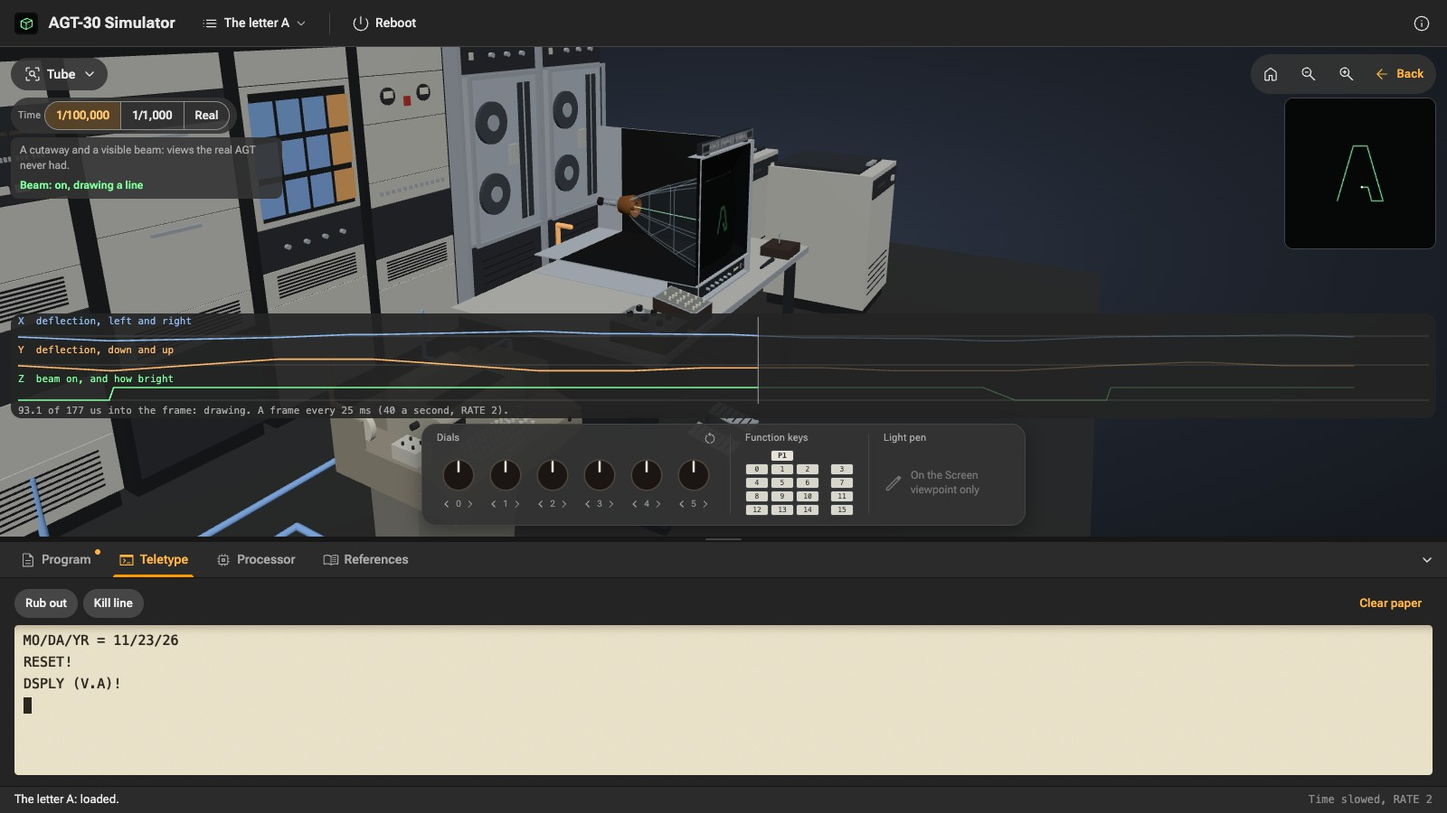
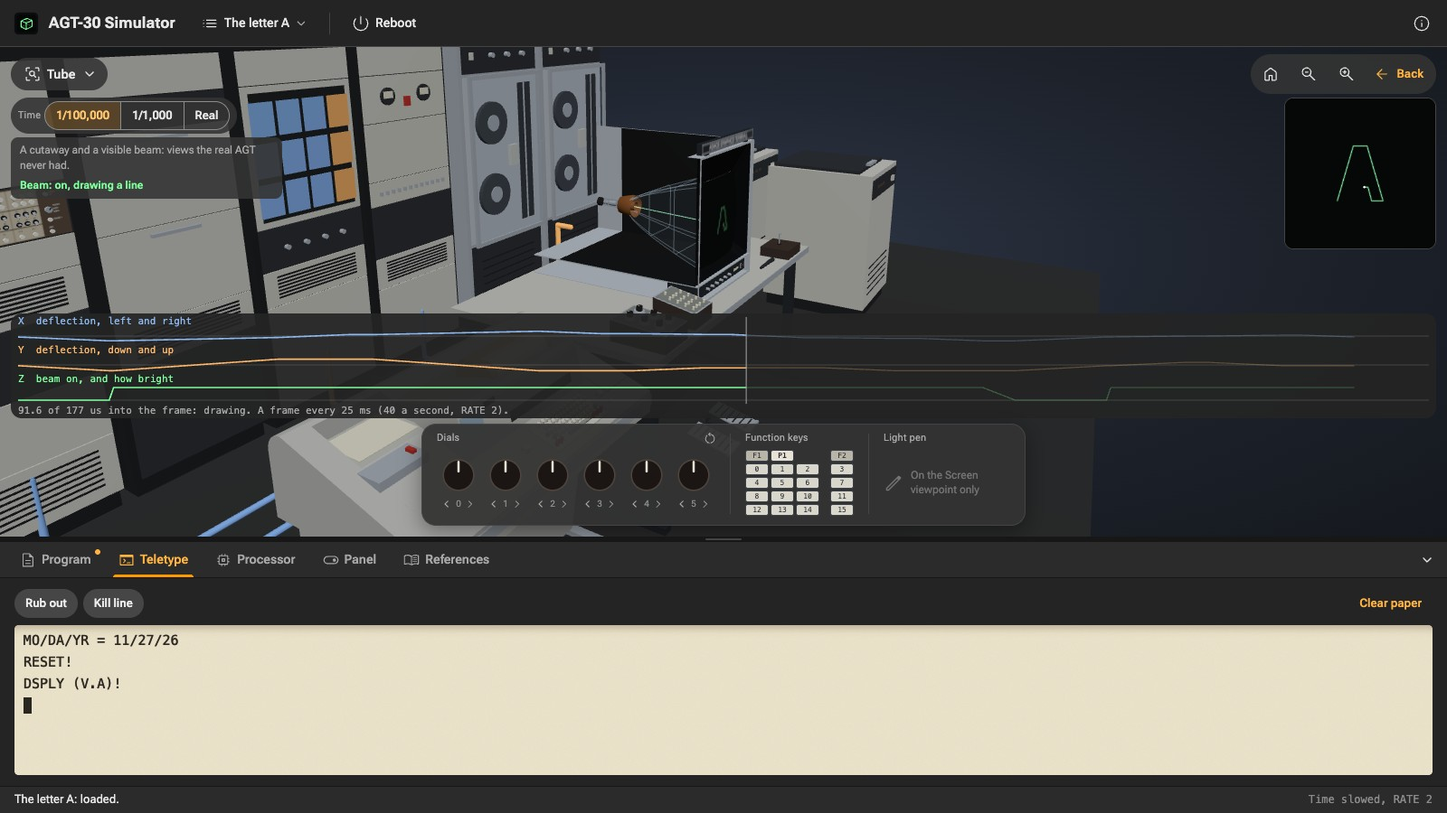
v0.0.5, ready for review on the dev branch: CHANGELOG section, version 0.0.5 stamped, README brought up to date (the games, the Panel tab and viewpoint, the pedals, the reconstructions' short forms, matched in About), screenshots refreshed

Changed region(s): [[0.1875, 0.4978, 0.4062, 0.7156], [0.0, 0.1244, 0.0625, 0.3111], [0.375, 0.4978, 0.4375, 0.5289]]

diff --git a/index.html b/index.html
@@ -6,74 +6,74 @@
     <meta name="viewport" content="width=device-width, initial-scale=1">
     <meta name="description" content="The Adage Graphics Terminal AGT-30 (1968) in your browser: a 3D picture turned by a hybrid analog array and drawn on a refreshed vector CRT, with its Teletype and console.">
     <title>AGT-30 Simulator</title>
-    <link rel="icon" href="images/favicon.svg?v=0.0.4" type="image/svg+xml">
-    <link rel="stylesheet" href="css/style.css?v=0.0.4">
+    <link rel="icon" href="images/favicon.svg?v=0.0.5" type="image/svg+xml">
+    <link rel="stylesheet" href="css/style.css?v=0.0.5">
     <!-- Every file name here carries the version (?v=), and so does each module the
          scripts import, through this map. pnpm version writes them, or pnpm stamp
          (tools/stamp.mjs); do not edit them by hand. -->
     <script type="importmap">
     {
       "imports": {
-        "three": "./vendor/three/build/three.module.js?v=0.0.4",
-        "three/addons/controls/OrbitControls.js": "./vendor/three/examples/jsm/controls/OrbitControls.js?v=0.0.4",
-        "three/addons/utils/BufferGeometryUtils.js": "./vendor/three/examples/jsm/utils/BufferGeometryUtils.js?v=0.0.4",
-        "./js/accept/check.js": "./js/accept/check.js?v=0.0.4",
-        "./js/accept/crt.js": "./js/accept/crt.js?v=0.0.4",
-        "./js/accept/model.js": "./js/accept/model.js?v=0.0.4",
-        "./js/accept/scene.js": "./js/accept/scene.js?v=0.0.4",
-        "./js/app/about.js": "./js/app/about.js?v=0.0.4",
-        "./js/app/aboutData.js": "./js/app/aboutData.js?v=0.0.4",
-        "./js/app/dock.js": "./js/app/dock.js?v=0.0.4",
-        "./js/app/link.js": "./js/app/link.js?v=0.0.4",
-        "./js/app/main.js": "./js/app/main.js?v=0.0.4",
-        "./js/app/panel.js": "./js/app/panel.js?v=0.0.4",
-        "./js/app/processor.js": "./js/app/processor.js?v=0.0.4",
-        "./js/app/programCard.js": "./js/app/programCard.js?v=0.0.4",
-        "./js/app/references.js": "./js/app/references.js?v=0.0.4",
-        "./js/app/runner.js": "./js/app/runner.js?v=0.0.4",
-        "./js/app/selftest.js": "./js/app/selftest.js?v=0.0.4",
-        "./js/app/stage.js": "./js/app/stage.js?v=0.0.4",
-        "./js/app/strip.js": "./js/app/strip.js?v=0.0.4",
-        "./js/app/teletype.js": "./js/app/teletype.js?v=0.0.4",
-        "./js/l10n/en.js": "./js/l10n/en.js?v=0.0.4",
-        "./js/l10n/l10n.js": "./js/l10n/l10n.js?v=0.0.4",
-        "./js/scene/terminal3d.js": "./js/scene/terminal3d.js?v=0.0.4",
-        "./js/scene/viewer.js": "./js/scene/viewer.js?v=0.0.4",
-        "./js/sim/adept.js": "./js/sim/adept.js?v=0.0.4",
-        "./js/sim/agt.js": "./js/sim/agt.js?v=0.0.4",
-        "./js/sim/amos.js": "./js/sim/amos.js?v=0.0.4",
-        "./js/sim/amoscode.js": "./js/sim/amoscode.js?v=0.0.4",
-        "./js/sim/array.js": "./js/sim/array.js?v=0.0.4",
-        "./js/sim/avg1.js": "./js/sim/avg1.js?v=0.0.4",
-        "./js/sim/bare.js": "./js/sim/bare.js?v=0.0.4",
-        "./js/sim/dms2.js": "./js/sim/dms2.js?v=0.0.4",
-        "./js/sim/dpr2.js": "./js/sim/dpr2.js?v=0.0.4",
-        "./js/sim/dsply.js": "./js/sim/dsply.js?v=0.0.4",
-        "./js/sim/figures.js": "./js/sim/figures.js?v=0.0.4",
-        "./js/sim/font.js": "./js/sim/font.js?v=0.0.4",
-        "./js/sim/frameclock.js": "./js/sim/frameclock.js?v=0.0.4",
-        "./js/sim/image.js": "./js/sim/image.js?v=0.0.4",
-        "./js/sim/listing.js": "./js/sim/listing.js?v=0.0.4",
-        "./js/sim/panel.js": "./js/sim/panel.js?v=0.0.4",
-        "./js/sim/programs.js": "./js/sim/programs.js?v=0.0.4",
-        "./js/sim/teletype.js": "./js/sim/teletype.js?v=0.0.4",
-        "./js/sim/terminal.js": "./js/sim/terminal.js?v=0.0.4",
-        "./js/sim/ttyline.js": "./js/sim/ttyline.js?v=0.0.4",
-        "./js/sim/vecgen.js": "./js/sim/vecgen.js?v=0.0.4",
-        "./js/sim/words.js": "./js/sim/words.js?v=0.0.4",
-        "./js/ui/components.js": "./js/ui/components.js?v=0.0.4",
-        "./js/view/beam.js": "./js/view/beam.js?v=0.0.4",
-        "./js/view/crt.js": "./js/view/crt.js?v=0.0.4",
-        "./js/view/phosphor.js": "./js/view/phosphor.js?v=0.0.4",
-        "./js/view/theme.js": "./js/view/theme.js?v=0.0.4",
-        "./js/view/traces.js": "./js/view/traces.js?v=0.0.4",
-        "./package.json": "./package.json?v=0.0.4",
-        "./params/terminal.json": "./params/terminal.json?v=0.0.4",
-        "./vendor/material-symbols/icons.js": "./vendor/material-symbols/icons.js?v=0.0.4",
-        "./vendor/three/build/three.core.js": "./vendor/three/build/three.core.js?v=0.0.4",
-        "./vendor/three/build/three.module.js": "./vendor/three/build/three.module.js?v=0.0.4",
-        "./vendor/three/examples/jsm/controls/OrbitControls.js": "./vendor/three/examples/jsm/controls/OrbitControls.js?v=0.0.4",
-        "./vendor/three/examples/jsm/utils/BufferGeometryUtils.js": "./vendor/three/examples/jsm/utils/BufferGeometryUtils.js?v=0.0.4"
+        "three": "./vendor/three/build/three.module.js?v=0.0.5",
+        "three/addons/controls/OrbitControls.js": "./vendor/three/examples/jsm/controls/OrbitControls.js?v=0.0.5",
+        "three/addons/utils/BufferGeometryUtils.js": "./vendor/three/examples/jsm/utils/BufferGeometryUtils.js?v=0.0.5",
+        "./js/accept/check.js": "./js/accept/check.js?v=0.0.5",
+        "./js/accept/crt.js": "./js/accept/crt.js?v=0.0.5",
+        "./js/accept/model.js": "./js/accept/model.js?v=0.0.5",
+        "./js/accept/scene.js": "./js/accept/scene.js?v=0.0.5",
+        "./js/app/about.js": "./js/app/about.js?v=0.0.5",
+        "./js/app/aboutData.js": "./js/app/aboutData.js?v=0.0.5",
+        "./js/app/dock.js": "./js/app/dock.js?v=0.0.5",
+        "./js/app/link.js": "./js/app/link.js?v=0.0.5",
+        "./js/app/main.js": "./js/app/main.js?v=0.0.5",
+        "./js/app/panel.js": "./js/app/panel.js?v=0.0.5",
+        "./js/app/processor.js": "./js/app/processor.js?v=0.0.5",
+        "./js/app/programCard.js": "./js/app/programCard.js?v=0.0.5",
+        "./js/app/references.js": "./js/app/references.js?v=0.0.5",
+        "./js/app/runner.js": "./js/app/runner.js?v=0.0.5",
+        "./js/app/selftest.js": "./js/app/selftest.js?v=0.0.5",
+        "./js/app/stage.js": "./js/app/stage.js?v=0.0.5",
+        "./js/app/strip.js": "./js/app/strip.js?v=0.0.5",
+        "./js/app/teletype.js": "./js/app/teletype.js?v=0.0.5",
+        "./js/l10n/en.js": "./js/l10n/en.js?v=0.0.5",
+        "./js/l10n/l10n.js": "./js/l10n/l10n.js?v=0.0.5",
+        "./js/scene/terminal3d.js": "./js/scene/terminal3d.js?v=0.0.5",
+        "./js/scene/viewer.js": "./js/scene/viewer.js?v=0.0.5",
+        "./js/sim/adept.js": "./js/sim/adept.js?v=0.0.5",
+        "./js/sim/agt.js": "./js/sim/agt.js?v=0.0.5",
+        "./js/sim/amos.js": "./js/sim/amos.js?v=0.0.5",
+        "./js/sim/amoscode.js": "./js/sim/amoscode.js?v=0.0.5",
+        "./js/sim/array.js": "./js/sim/array.js?v=0.0.5",
+        "./js/sim/avg1.js": "./js/sim/avg1.js?v=0.0.5",
+        "./js/sim/bare.js": "./js/sim/bare.js?v=0.0.5",
+        "./js/sim/dms2.js": "./js/sim/dms2.js?v=0.0.5",
+        "./js/sim/dpr2.js": "./js/sim/dpr2.js?v=0.0.5",
+        "./js/sim/dsply.js": "./js/sim/dsply.js?v=0.0.5",
+        "./js/sim/figures.js": "./js/sim/figures.js?v=0.0.5",
+        "./js/sim/font.js": "./js/sim/font.js?v=0.0.5",
+        "./js/sim/frameclock.js": "./js/sim/frameclock.js?v=0.0.5",
+        "./js/sim/image.js": "./js/sim/image.js?v=0.0.5",
+        "./js/sim/listing.js": "./js/sim/listing.js?v=0.0.5",
+        "./js/sim/panel.js": "./js/sim/panel.js?v=0.0.5",
+        "./js/sim/programs.js": "./js/sim/programs.js?v=0.0.5",
+        "./js/sim/teletype.js": "./js/sim/teletype.js?v=0.0.5",
+        "./js/sim/terminal.js": "./js/sim/terminal.js?v=0.0.5",
+        "./js/sim/ttyline.js": "./js/sim/ttyline.js?v=0.0.5",
+        "./js/sim/vecgen.js": "./js/sim/vecgen.js?v=0.0.5",
+        "./js/sim/words.js": "./js/sim/words.js?v=0.0.5",
+        "./js/ui/components.js": "./js/ui/components.js?v=0.0.5",
+        "./js/view/beam.js": "./js/view/beam.js?v=0.0.5",
+        "./js/view/crt.js": "./js/view/crt.js?v=0.0.5",
+        "./js/view/phosphor.js": "./js/view/phosphor.js?v=0.0.5",
+        "./js/view/theme.js": "./js/view/theme.js?v=0.0.5",
+        "./js/view/traces.js": "./js/view/traces.js?v=0.0.5",
+        "./package.json": "./package.json?v=0.0.5",
+        "./params/terminal.json": "./params/terminal.json?v=0.0.5",
+        "./vendor/material-symbols/icons.js": "./vendor/material-symbols/icons.js?v=0.0.5",
+        "./vendor/three/build/three.core.js": "./vendor/three/build/three.core.js?v=0.0.5",
+        "./vendor/three/build/three.module.js": "./vendor/three/build/three.module.js?v=0.0.5",
+        "./vendor/three/examples/jsm/controls/OrbitControls.js": "./vendor/three/examples/jsm/controls/OrbitControls.js?v=0.0.5",
+        "./vendor/three/examples/jsm/utils/BufferGeometryUtils.js": "./vendor/three/examples/jsm/utils/BufferGeometryUtils.js?v=0.0.5"
       }
     }
     </script>
@@ -81,7 +81,7 @@
   <body>
     <header id="topbar">
       <div class="brand">
-        <img class="brand-mark" src="images/logo.svg?v=0.0.4" alt="">
+        <img class="brand-mark" src="images/logo.svg?v=0.0.5" alt="">
         <span class="brand-name" data-l10n="app.name">AGT-30 Simulator</span>
       </div>
       <button id="programs" class="btn tool-btn has-icon" type="button" aria-haspopup="menu" aria-expanded="false" data-tip-describes data-l10n-tip="bar.programs.tip"><i data-icon="list"></i><span id="programs-label" data-l10n="bar.programs"></span><i data-icon="keyboard_arrow_down"></i></button>
@@ -164,6 +164,6 @@
     </section>
 
     <footer id="status" role="status" aria-live="polite"><span id="status-text"></span><span id="fps" class="fps"></span></footer>
-    <script type="module" src="js/app/main.js?v=0.0.4"></script>
+    <script type="module" src="js/app/main.js?v=0.0.5"></script>
   </body>
 </html>

diff --git a/js/l10n/en.js b/js/l10n/en.js
@@ -354,22 +354,22 @@ export default {
   "recon.R6": "Settled: the multiply unit's results are as the processor's manual gives them.",
   "recon.R7": "A dial is read through the array's input selector and converter, as on the AGT/30; how the selector's word chooses the dial is ours.",
   "recon.R8": "The assembler is ADEPT as its manual describes it, without action operators or relocatable output, and with our syntax for display items' arguments.",
-  "recon.R9": "What the monitor types back is ours: echoes, results and ?; the Teletype takes a whole character at a time, not a bit.",
-  "recon.R10": "Interrupts: the pen, the Teletype and the frame clock are served directly; the program interrupt's pivot is ours.",
+  "recon.R9": "What the simulator's own monitor types back is ours: echoes, results and ?; with it, the Teletype takes a whole character at a time. Under AMRMX the line works a bit at a time (R23).",
+  "recon.R10": "Interrupts: under the simulator's own monitor the pen, the Teletype and the frame clock are served directly; under AMRMX the devices interrupt as its code expects. The program interrupt's pivot, 77743, is AMRMX's.",
   "recon.R11": "The pen-hit table's layout and PENHT's code are ours.",
   "recon.R12": "Dash mode draws about ten dashes an inch.",
   "recon.R13": "The tunnel's perspective routine is JavaScript, charged an estimated time.",
   "recon.R14": "The phosphor: green and medium-short, P31-like; the GDS1's is not documented.",
   "recon.R15": "Core at start holds the paper's pictures and the resident routines; 32K words, as NCSU's.",
   "recon.R16": "Sizes: the scope measured from photographs; the racks, tapes and disks estimated.",
-  "recon.R17": "The Teletype's shape: proportions measured from a reference model, scaled to its documented size.",
-  "recon.R18": "The console's devices: shapes from photographs; the pedals as the period's foot switches.",
+  "recon.R17": "The Teletype is an ASR-35 at its documented size, shaped from photographs; the ASR-33 is kept as an option.",
+  "recon.R18": "The console's devices: shapes from photographs; the pedals as the period's foot switches. The keys and pedals reach the processor as Adage's own switch routines read them.",
   "recon.R19": "The cables are a diagram of the signal paths, not the real cabling.",
   "recon.R20": "The cutaway and the visible beam are views the real AGT never had.",
-  "recon.R21": "The operator's panel works on the simulated machine; its monitor is JavaScript, so HALT, RUN and STEP act on what the processor runs, and PULSE 1's pivot leads to a trap.",
-  "recon.R22": "AVG1 and the array at register level, for programs that drive the display themselves (AMRMX): vector words on D05, the next sent on each end-of-vector interrupt, array registers loaded through D07; which register number is which is ours, from what AMRMX does with them.",
+  "recon.R21": "The operator's panel works on the simulated machine; under the simulator's own monitor, which is JavaScript, PULSE 1's pivot leads to a trap; under AMRMX the panel acts on its code.",
+  "recon.R22": "AVG1 and the array at register level, for programs that drive the display themselves (AMRMX, LIFE, Space War); which register number is which is ours, from what those programs do with them.",
   "recon.R23": "The Teletype's line at bit level, for AMRMX: one interrupt a bit, OPTY sending BR[22], S4[14] receiving; the rate (110 baud) and the clock's timing are ours.",
-  "recon.R24": "The disk and the bootstrap: DMS2 as AMRMX drives it, from AMLD0's source; our bootstrap loads the monitor as AMLD0 does, without its code; the disk's times are ours.",
+  "recon.R24": "The disk and the bootstrap: DMS2 as AMRMX drives it, from AMLD0's source; our bootstrap loads the monitor, and our loader the games, without NCSU's code for either; the disk's times are ours.",
 
   // ---- the parts' cards (params/terminal.json) ----
   "part.console.desk": "Operator's console",

diff --git a/css/fonts.css b/css/fonts.css
@@ -6,7 +6,7 @@
   font-style: normal;
   font-display: swap;
   font-weight: 100 1000;
-  src: url(../vendor/roboto-flex/files/roboto-flex-latin-ext-wght-normal.woff2?v=0.0.4) format("woff2-variations");
+  src: url(../vendor/roboto-flex/files/roboto-flex-latin-ext-wght-normal.woff2?v=0.0.5) format("woff2-variations");
   unicode-range: U+0100-02BA, U+02BD-02C5, U+02C7-02CC, U+02CE-02D7, U+02DD-02FF, U+0304, U+0308, U+0329, U+1D00-1DBF, U+1E00-1E9F, U+1EF2-1EFF, U+2020, U+20A0-20AB, U+20AD-20C0, U+2113, U+2C60-2C7F, U+A720-A7FF;
 }
 @font-face {
@@ -14,6 +14,6 @@
   font-style: normal;
   font-display: swap;
   font-weight: 100 1000;
-  src: url(../vendor/roboto-flex/files/roboto-flex-latin-wght-normal.woff2?v=0.0.4) format("woff2-variations");
+  src: url(../vendor/roboto-flex/files/roboto-flex-latin-wght-normal.woff2?v=0.0.5) format("woff2-variations");
   unicode-range: U+0000-00FF, U+0131, U+0152-0153, U+02BB-02BC, U+02C6, U+02DA, U+02DC, U+0304, U+0308, U+0329, U+2000-206F, U+20AC, U+2122, U+2191, U+2193, U+2212, U+2215, U+FEFF, U+FFFD;
 }

diff --git a/css/style.css b/css/style.css
@@ -4,8 +4,8 @@
    status line. The page never scrolls. Every color, corner and state is a token (css/theme.css,
    U10); the controls are the simulator series' (the TRS-80 simulator's). */
 
-@import url("theme.css?v=0.0.4");
-@import url("fonts.css?v=0.0.4");
+@import url("theme.css?v=0.0.5");
+@import url("fonts.css?v=0.0.5");
 
 :root {
   font-family: var(--font);

diff --git a/README.md b/README.md
@@ -4,7 +4,7 @@
 
 The Adage Graphics Terminal, model 30 (1968), in your browser: a 30-bit processor that walked a structured picture every frame, a hybrid analog array that turned it in three dimensions in under 4 microseconds a point, and a refreshed vector CRT, with its console and its Teletype.
 
-> **A pre-release (v0.0.2).** The simulator is still changing. Its links (`#view=…&program=…`) may change before 1.0.0, and where the documents stop it reconstructs, as listed below.
+> **A pre-release (v0.0.5).** The simulator is still changing. Its links (`#view=…&program=…`) may change before 1.0.0, and where the documents stop it reconstructs, as listed below. New in v0.0.5: NCSU's own monitor and games, LIFE and Space War, run from the lab's 1976 system pack ([CHANGELOG.md](CHANGELOG.md)).
 
 **[▶ Try it online](https://wixette.github.io/agt30-simulator/)**: nothing to install. Made for a desktop browser (recent Chrome, Edge, Safari or Firefox), and it works on a phone too.
 
@@ -22,7 +22,7 @@ The Adage Graphics Terminal, model 30 (1968), in your browser: a 30-bit processo
 1. **Choose a program** from **Programs** in the top bar, for example *A cube turned by the dials*. The simulator types its statements on the Teletype, as an operator would have, and the picture appears on the scope.
 2. **Play with it:** turn the dials in the console strip under the picture (drag one round, or click its small arrows). Each program's card, in the **Program** tab below, says what to try.
 3. **Look closer:** the menu at the top left of the picture changes the viewpoint (Room, Console, Screen, Tube). Click any part of the installation for its card.
-4. **Boot the real monitor**, if you like: **Boot AMRMX** in the **Panel** tab runs NCSU's own monitor from its 1976 system pack (fetched from M. Howard's repository). Type the date it asks for on the Teletype, for example `11/23/76` and Return. NCSU's own games from the same pack, **LIFE** and **Space War**, are in the **Programs** menu.
+4. **Play NCSU's own games:** **LIFE** and **Space War**, at the foot of the Programs menu, run unchanged from the lab's 1976 system pack, fetched from M. Howard's repository, under its monitor AMRMX. Their cards give the keys.
 5. **Start again:** **Unload** on the program's card, or at the foot of the Programs menu, takes the program out and reboots the terminal; **Reboot** in the top bar does the same at any time.
 
 ## The machine in a few minutes
@@ -49,19 +49,21 @@ The AGT-30 was a graphics terminal made by Adage, Inc. of Boston in 1968: a room
 - **Console:** from the operator's seat.
 - **Screen:** the picture close up. This is where the light pen works.
 - **Tube:** the scope cut open, the beam drawing in time slowed up to 100,000 times, with its X, Y and Z signals traced.
+- **Panel:** the processor's operator's control panel, on its rack.
 
-**The console strip**, under the picture, holds the dials, the function keys and the light pen.
+**The console strip**, under the picture, holds the dials, the function keys, the two foot pedals (F1, F2) and the light pen.
 
-**The dock** below has four tabs. Drag the handle above it to make it taller or shorter; it remembers its tab and height.
+**The dock** below has five tabs. Drag the handle above it to make it taller or shorter; it remembers its tab and height.
 - **Program:** the program loaded: what it rebuilds, how to use it, its switches, what in it is ours, and its statements and source.
 - **Teletype:** the paper and the keyboard. Click the paper and type statements yourself, each ended with `!`. Some to try:
   - `DSPLY (V.A)!` shows the letter A; `HALT!` stops the display.
   - `V!` asks the monitor its version.
   - `LIST (, RVCD, RVCD+5)!` lists six words of memory in octal.
 - **Processor:** a look inside the processor as it runs: its registers, and memory read as instructions, as picture items or as plain words. A view the real AGT never had.
+- **Panel:** the operator's control panel, to run, halt and step the processor. **Boot AMRMX** there runs NCSU's monitor alone: type the date it asks for, for example `11/23/76`.
 - **References:** where to read more: the history of the NCSU lab, Adage's documents, the tapes of the NCSU lab, and the simulator's own research. About's References button opens it too.
 
-**Seven programs**, from the Programs menu:
+**Seven programs of ours**, from the Programs menu:
 - the letter A, the 1968 paper's first picture;
 - a cube turned by the dials, and the same cube in perspective, worked out by the processor;
 - the tunnel, with and without depth cueing;
@@ -69,7 +71,9 @@ The AGT-30 was a graphics terminal made by Adage, Inc. of Boston in 1968: a room
 - 3-D tic-tac-toe, played with the function keys and the light pen;
 - 1,000 random lines, the paper's measure of the array, which you can push until the picture no longer fits a frame.
 
-**A link** opens a viewpoint and a program: for example [`#view=screen&program=tic-tac-toe`](https://wixette.github.io/agt30-simulator/#view=screen&program=tic-tac-toe).
+**Two of NCSU's**, from the lab's system pack: LIFE, Conway's game on a 128 × 128 board, and Space War, two ships around a star.
+
+**A link** opens a viewpoint and a program: for example [`#view=screen&program=tic-tac-toe`](https://wixette.github.io/agt30-simulator/#view=screen&program=tic-tac-toe) or [`#program=space-war`](https://wixette.github.io/agt30-simulator/#program=space-war).
 
 ## Run it on your own machine
 
@@ -95,22 +99,22 @@ Much of the AGT is documented, but not all of it. Where the documents stop, the 
 - **R6.** Settled: the multiply unit's results are as the processor's manual gives them.
 - **R7.** A dial is read through the array's input selector and converter, as on the AGT/30; how the selector's word chooses the dial is ours.
 - **R8.** The assembler is ADEPT as its manual describes it, without action operators or relocatable output, and with our syntax for display items' arguments.
-- **R9.** What the monitor types back is ours: echoes, results and ?; the Teletype takes a whole character at a time, not a bit.
-- **R10.** Interrupts: the pen, the Teletype and the frame clock are served directly; the program interrupt's pivot is ours.
+- **R9.** What the simulator's own monitor types back is ours: echoes, results and ?; with it, the Teletype takes a whole character at a time. Under AMRMX the line works a bit at a time (R23).
+- **R10.** Interrupts: under the simulator's own monitor the pen, the Teletype and the frame clock are served directly; under AMRMX the devices interrupt as its code expects. The program interrupt's pivot, 77743, is AMRMX's.
 - **R11.** The pen-hit table's layout and PENHT's code are ours.
 - **R12.** Dash mode draws about ten dashes an inch.
 - **R13.** The tunnel's perspective routine is JavaScript, charged an estimated time.
 - **R14.** The phosphor: green and medium-short, P31-like; the GDS1's is not documented.
 - **R15.** Core at start holds the paper's pictures and the resident routines; 32K words, as NCSU's.
 - **R16.** Sizes: the scope measured from photographs; the racks, tapes and disks estimated.
-- **R17.** The Teletype's shape: proportions measured from a reference model, scaled to its documented size.
-- **R18.** The console's devices: shapes from photographs; the pedals as the period's foot switches.
+- **R17.** The Teletype is an ASR-35 at its documented size, shaped from photographs; the ASR-33 is kept as an option.
+- **R18.** The console's devices: shapes from photographs; the pedals as the period's foot switches. The keys and pedals reach the processor as Adage's own switch routines read them.
 - **R19.** The cables are a diagram of the signal paths, not the real cabling.
 - **R20.** The cutaway and the visible beam are views the real AGT never had.
-- **R21.** The operator's panel works on the simulated machine; its monitor is JavaScript, so HALT, RUN and STEP act on what the processor runs, and PULSE 1's pivot leads to a trap.
-- **R22.** AVG1 and the array at register level, for programs that drive the display themselves (AMRMX): vector words on D05, the next sent on each end-of-vector interrupt, array registers loaded through D07; which register number is which is ours, from what AMRMX does with them.
+- **R21.** The operator's panel works on the simulated machine; under the simulator's own monitor, which is JavaScript, PULSE 1's pivot leads to a trap; under AMRMX the panel acts on its code.
+- **R22.** AVG1 and the array at register level, for programs that drive the display themselves (AMRMX, LIFE, Space War); which register number is which is ours, from what those programs do with them.
 - **R23.** The Teletype's line at bit level, for AMRMX: one interrupt a bit, OPTY sending BR[22], S4[14] receiving; the rate (110 baud) and the clock's timing are ours.
-- **R24.** The disk and the bootstrap: DMS2 as AMRMX drives it, from AMLD0's source; our bootstrap loads the monitor as AMLD0 does, without its code; the disk's times are ours.
+- **R24.** The disk and the bootstrap: DMS2 as AMRMX drives it, from AMLD0's source; our bootstrap loads the monitor, and our loader the games, without NCSU's code for either; the disk's times are ours.
 
 ## More
 

diff --git a/CHANGELOG.md b/CHANGELOG.md
@@ -2,16 +2,27 @@
 
 What changed in each release. Versions follow `package.json` and are tagged `vX.Y.Z` ([docs/development.md](docs/development.md), *Branches, versions and releases*). Versions 0.0.x are pre-releases. The decisions cited (D1, U8, R14, …) are in [docs/ui-design.md](docs/ui-design.md), [design/architecture.md](design/architecture.md) and [design/reconstructions.md](design/reconstructions.md).
 
-## Unreleased
+## 0.0.5
 
-- The Teletype is an ASR-35, the console desk AGTs used, at its documented size and in the shape photographs of one show (R17). Adage's 1969 brochure lists an ASR-33; its Model 5 manual and M. Howard's memory say ASR-35. The ASR-33 is kept, chosen by the part's `model`.
-- The operator's control panel works: BR's lamp-buttons, the PRI switches, PULSE 1, RUN, HALT, PAUSE, STEP, CYCLE, RESET, ON and OFF, BTSP, IC 0 and IC 1, in a new Panel tab and on the processor rack in 3D, with a Panel viewpoint (R21). PULSE 1 at the switches' usual setting, `MDIR 77776`, returns to the monitor, as M. Howard describes.
-- **The real monitor.** Boot AMRMX, in the Panel tab, fetches NCSU's system pack from M. Howard's repository and boots it: AMRMX (1976) runs on the simulated DPR-2, draws its banner on the scope with its own display handler and font, and takes the date typed on the Teletype (U19). For it the vector generator and the array (R22), the Teletype's line (R23) and the disk (R24) are modeled at register level, from what DISP2, AMLD0 and AMRMX's own code show ([research/amrmx.md](research/amrmx.md)).
-- The processor: the program interrupt's pivot is 77743, a priority service ends at its Jump Indirect only, ARLS shifts through the sign as NORM does, and a store with 'O sets the word to −0, as AMRMX and Adage's own sources need (R1, R6, R10). With the last, AMRMX takes statements typed on the Teletype (`LISTV(10)!` lists a volume on the scope) and LIFE redraws its board ([research/amrmx.md](research/amrmx.md)).
-- The array's registers as the pack's programs use them: the matrix's diagonal, the terms that carry z into x and y, the position, the size, the scale, and the converter's input selector; a run of D07 words loads registers in turn (R22). LIFE's board is centered and its speed follows dial A; Space War runs from the pack too.
-- **LIFE** and **Space War** in the Programs menu start NCSU's games from the pack under AMRMX (U19), each with its card: Conway's Life on a 128 × 128 board, played with the function keys and dial A, and the two-ship Space War.
-- The pack image is understood: the dump on tape is the pack's first 984 sectors in order, with the monitor and the games LIFE, QUBIC, Space War and BROSE ([research/ncsu-tapes.md](research/ncsu-tapes.md)).
-- The overview: the array's size, a 19-inch rack of multiplying DACs (CCT21c).
+The lab's own software runs. NCSU's monitor, AMRMX (1976), boots from M. Howard's dump of the lab's system pack, and two of its games, LIFE and Space War, play from the Programs menu. Getting there settled several of the processor's details from the lab's and Adage's own code.
+
+**NCSU's software**
+- **LIFE** and **Space War** in the Programs menu run unchanged from the pack under AMRMX, each with its card and link (`#program=life`, `#program=space-war`): Conway's Life on a 128 × 128 board, and the two-ship Space War with a foot pedal each for thrust (U19).
+- **Boot AMRMX**, in the Panel tab, runs the monitor alone: it draws its banner on the scope with its own font, asks the date and takes statements typed on the Teletype (`LISTV(10)!` lists a volume). The pack (400 KB) is fetched from M. Howard's repository at a fixed commit, only when asked.
+- For them, the vector generator and the array (R22), the Teletype's line (R23) and the disk (R24) are modeled at register level, from what DISP2, AMLD0 and the pack's programs show ([research/amrmx.md](research/amrmx.md)). The games are started by our own loader: AMRMX's statement for a core-image file is not on the surviving part of the pack.
+
+**The processor**
+- A store with 'O sets the word to −0, as every commented use in Adage's and NCSU's sources does; ARLS shifts through the sign as NORM does; the program interrupt's pivot is 77743; a priority service ends at its Jump Indirect only; a word sent to IR is the next instruction, so LIFE's 16,384-instruction chain runs (R1, R6, R10).
+- The function keys and pedals reach S5 as Adage's switch routines read them: IC bit 9 selects keys 1–15, or the pedals and key 16 (R18). The strip has the two pedals.
+
+**The installation**
+- The Teletype is an ASR-35, the console desk AGTs used, at its documented size and in the shape photographs show (R17); the ASR-33 is kept as an option.
+- The operator's control panel works, in a Panel tab and on the processor rack in 3D, with a Panel viewpoint: BR's lamp-buttons, the PRI switches, PULSE 1 (pressed again, it withdraws its request), RUN, HALT, PAUSE, STEP, CYCLE, RESET, ON and OFF, BTSP, IC 0 and IC 1 (R21).
+- The Screen viewpoint's scope stays square in any window.
+
+**Also**
+- The pack image is understood: the dump on tape is the pack's first 984 sectors, with the monitor and the games LIFE, QUBIC, Space War and BROSE ([research/ncsu-tapes.md](research/ncsu-tapes.md)).
+- The overview: the array's size, a 19-inch rack of multiplying DACs (CCT21c); the function keys' layout.
 
 ## 0.0.4
 
